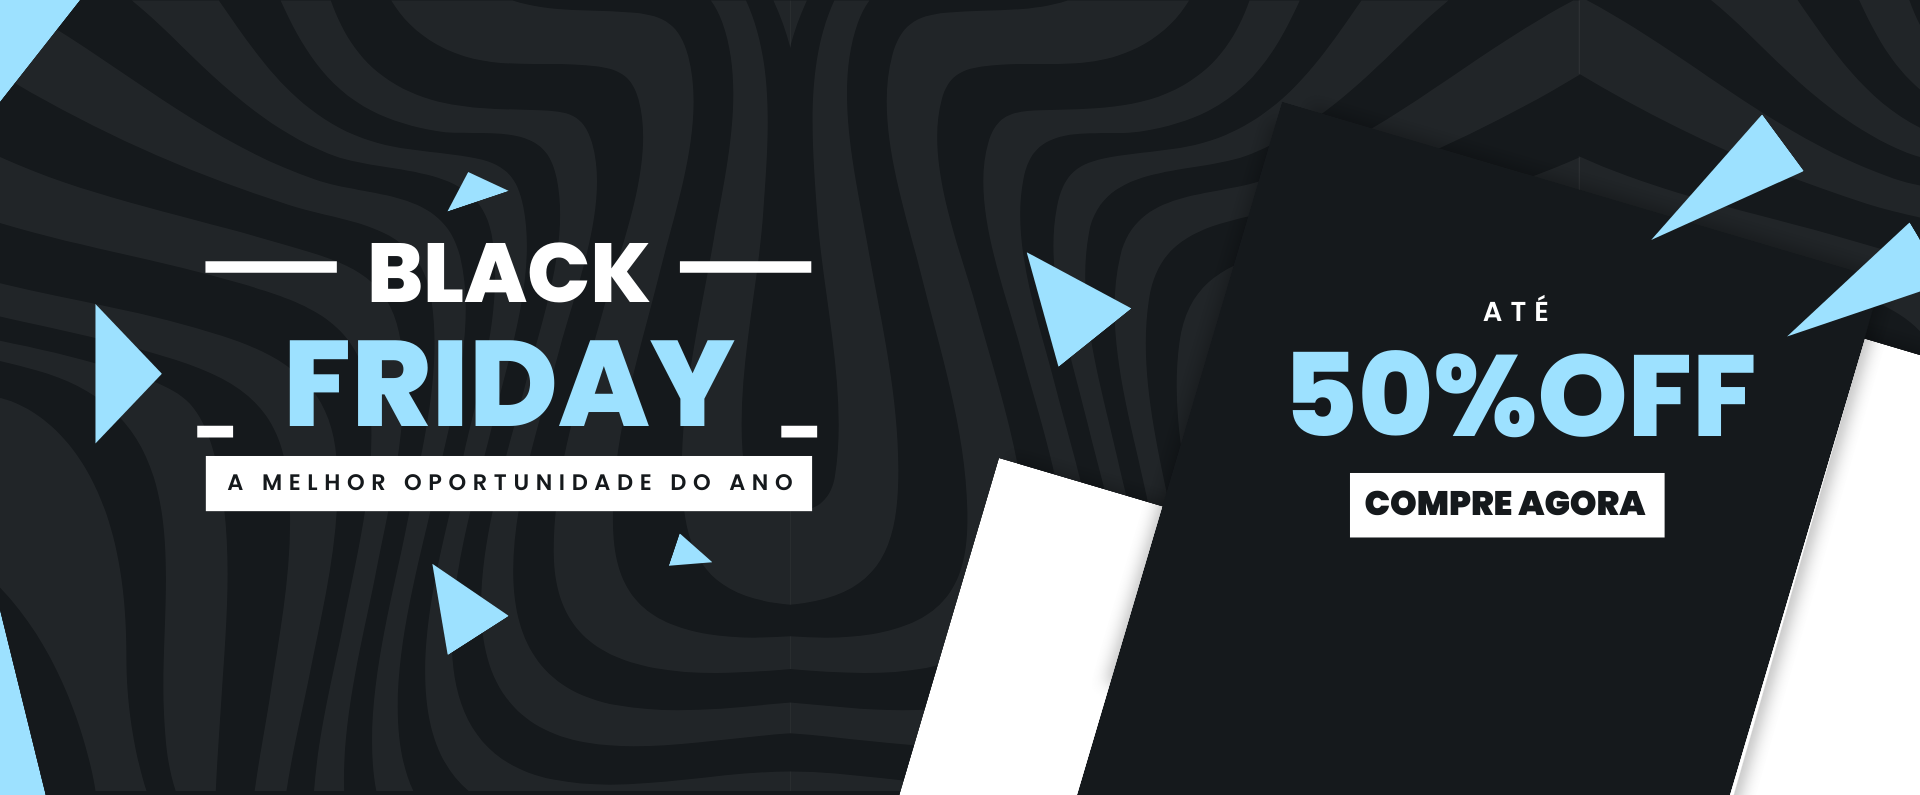
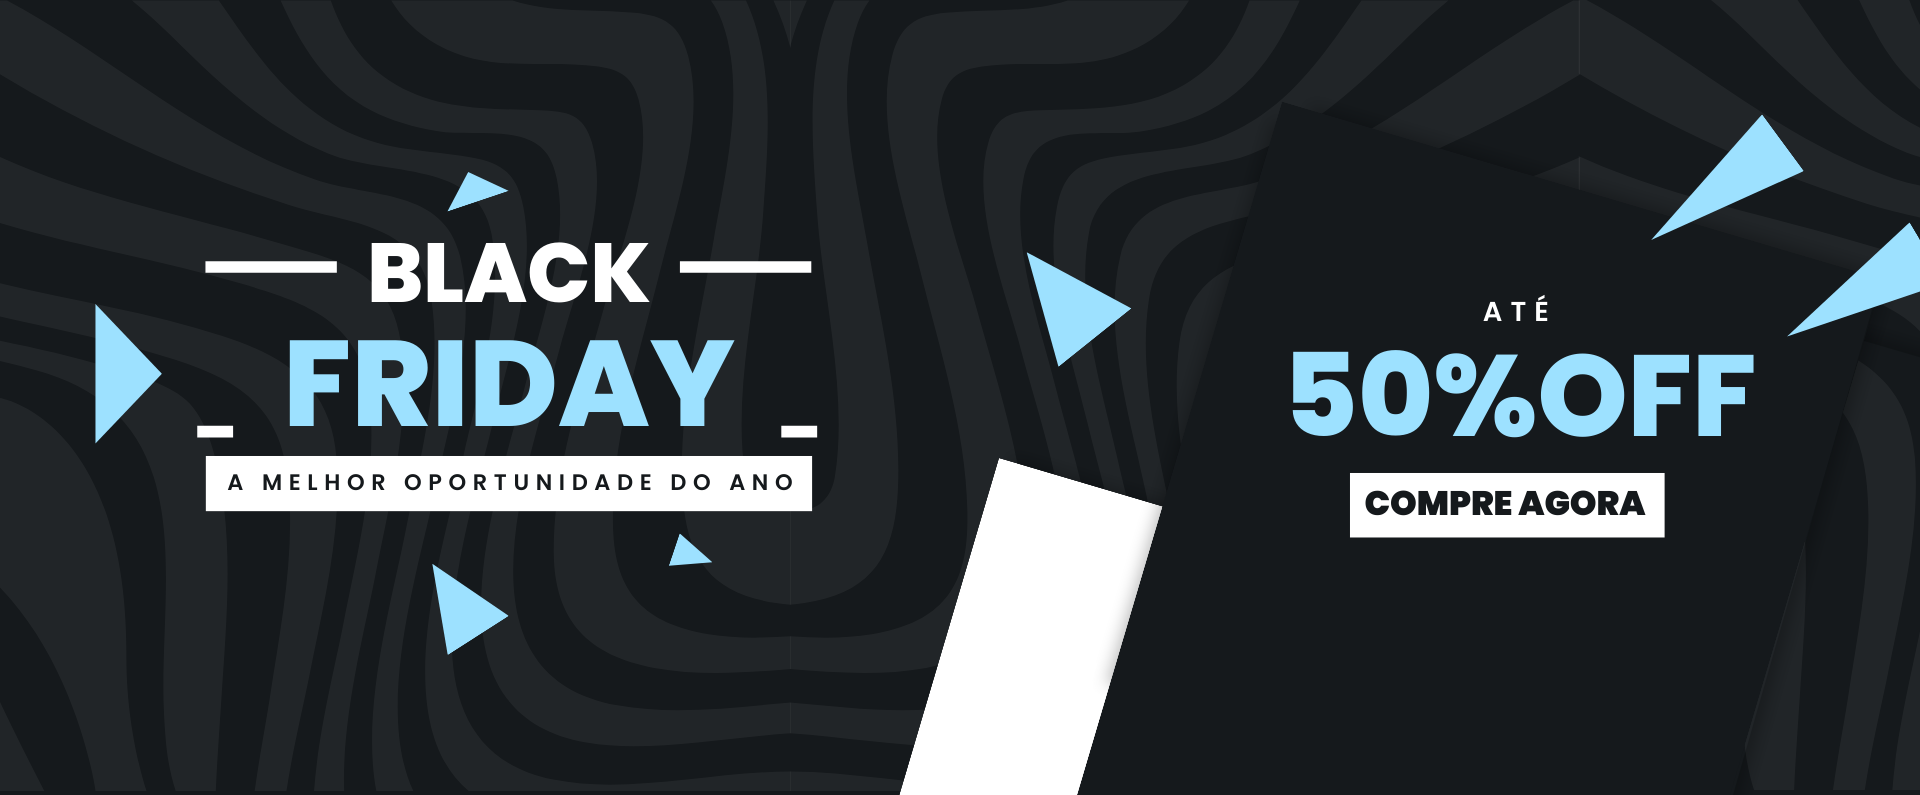
Update home

Changed region(s): [[0.875, 0.4226, 1.0, 1.0], [0.0, 0.7849, 0.0312, 1.0], [0.0, 0.0, 0.0625, 0.1208]]

diff --git a/index.html b/index.html
@@ -35,8 +35,15 @@
             <img src="./assets/icons-rede-social/wppicone.png" alt="whatsapp">
         </div>
     </header>
+
     <main>
+            <div class="banner-home">
+                <div class="bf-image">
+                    <img src="./assets/banner.png" alt="bfbanner" class="black-friday-banner">
+                </div>
+            </div>
     </main>
+
     <footer class="footer" id="sobre">
         <div class="container-footer">
             <div class="container-footer-endereco">

diff --git a/css/home.css b/css/home.css
@@ -1,0 +1,12 @@
+.banner-home{
+    height: 100%;
+    padding: 60px;
+}
+.bf-image{
+    padding: 60px;
+}
+.black-friday-banner{
+    width: 100%;
+    height: 100%;
+    border-radius:3%;
+}

diff --git a/css/style.css b/css/style.css
@@ -12,6 +12,6 @@ a {
 }
 
 main {
-  height: 100%;
-  background-color: #9de1ff;
+  height: 100vh;
+  background-color: #9de1ff; 
 }

diff --git a/css/header.css b/css/header.css
@@ -32,6 +32,7 @@
     color: #000;
     font-weight: 600;
     font-size: 20px;
+    height: 33px;
     transition: .4s;
 }
 
